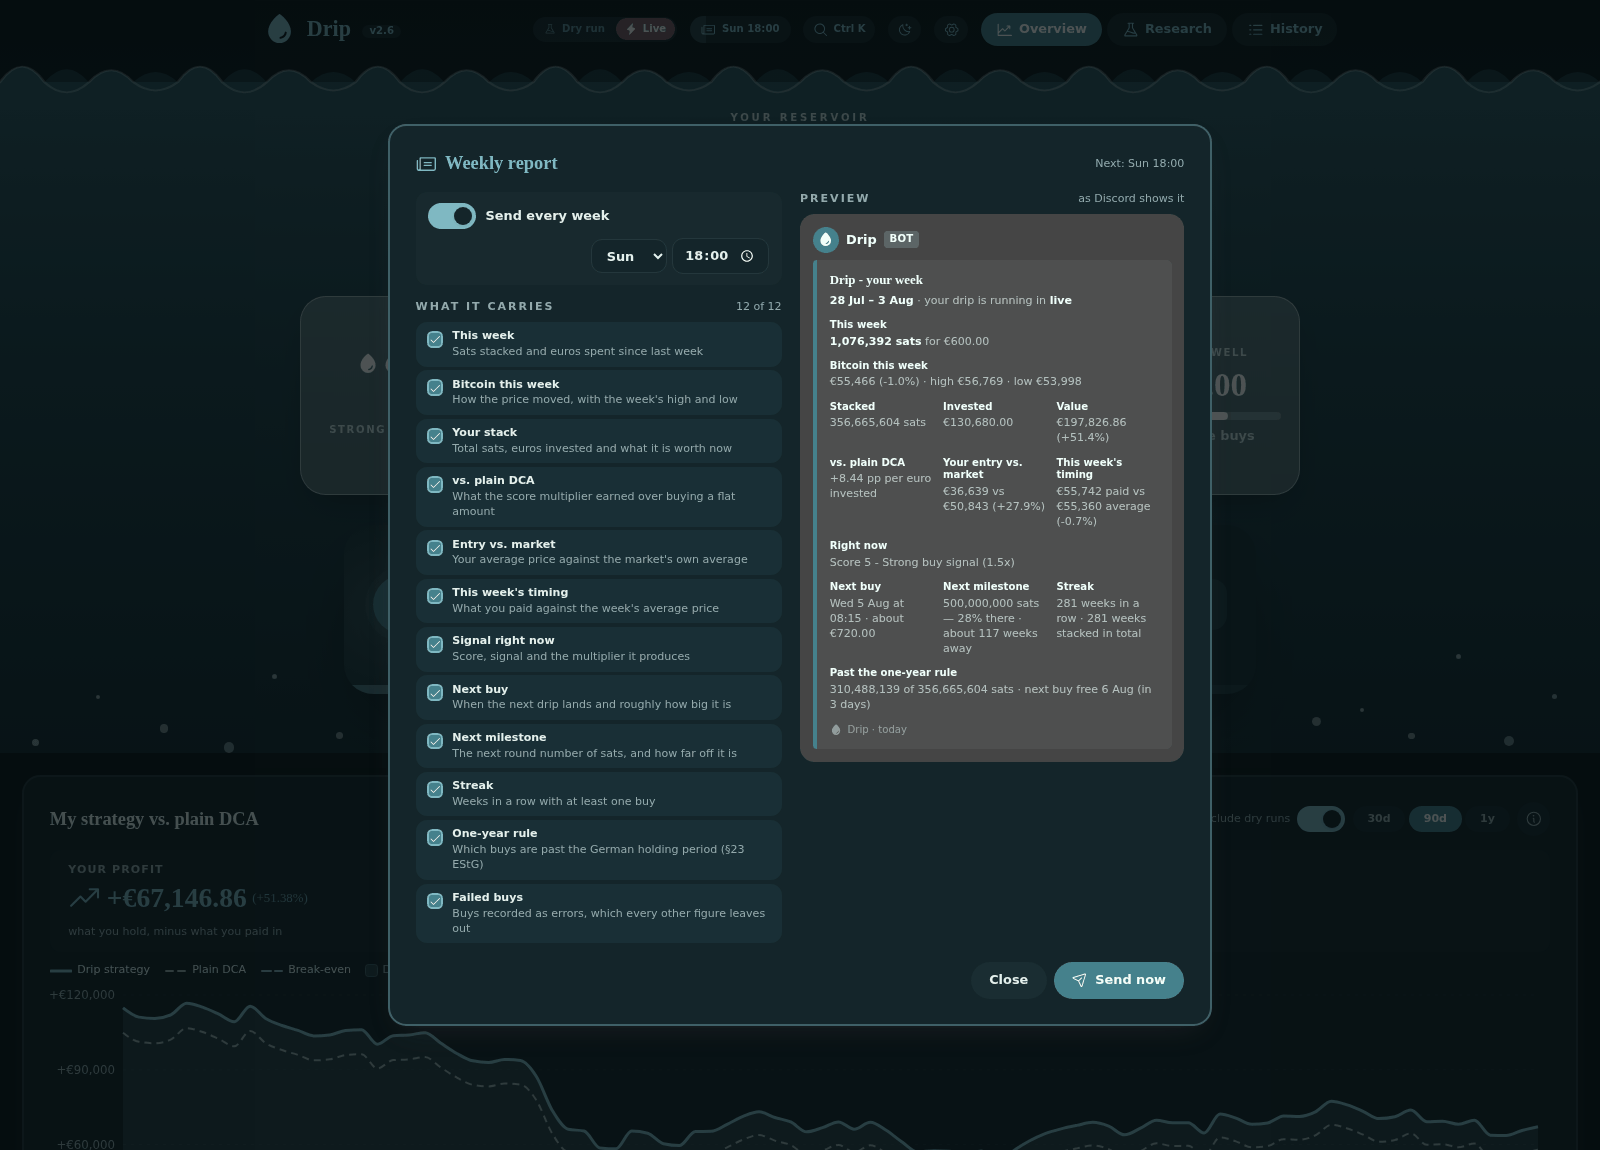
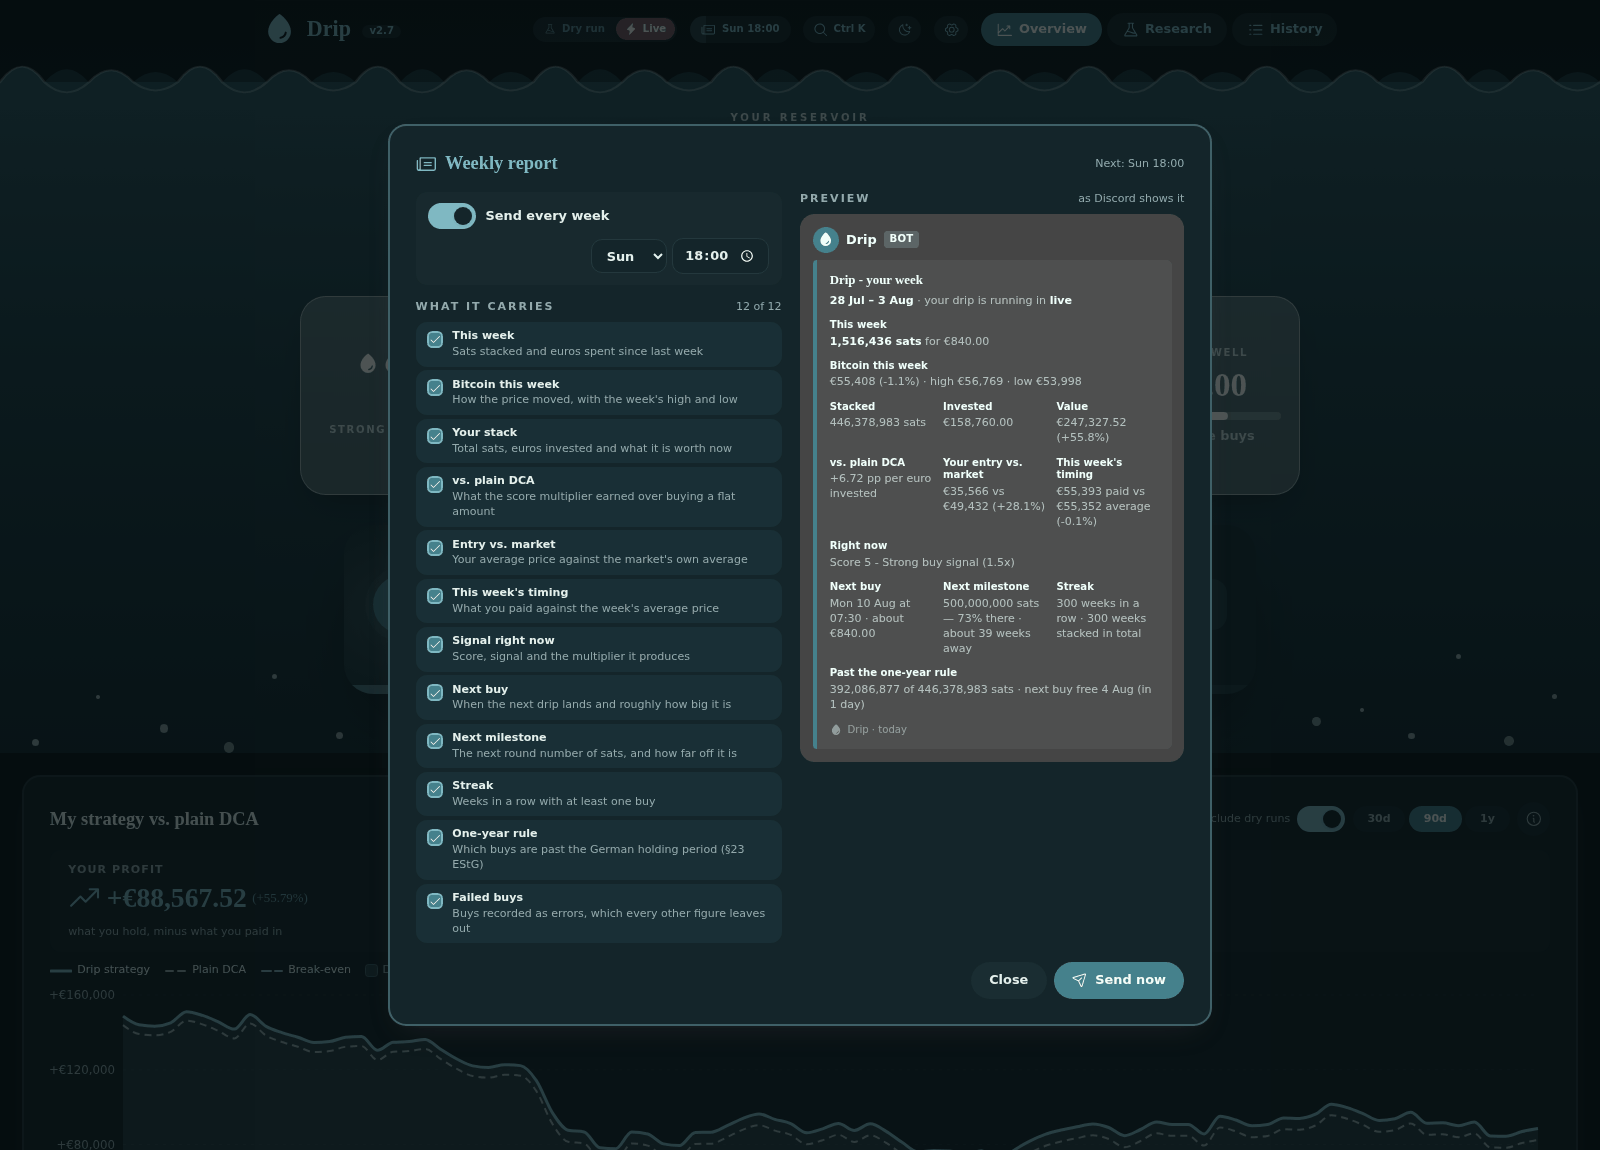
upd: tank fizzes at the signal

diff --git a/frontend/src/components/header/TankBackdrop.tsx b/frontend/src/components/header/TankBackdrop.tsx
@@ -2,11 +2,11 @@
  * The hero's body of water: the tank gradient, rising bubbles and the rolling
  * waterline that breaks across its top edge.
  *
- * Purely decorative (`aria-hidden`, `pointer-events-none`) and entirely
- * self-contained, so the header above it stays about data. The wave tones are
- * shades of the water gradient rather than palette colors — they live in
- * index.css beside that gradient so the surface dims with the water when the
- * night theme comes on, instead of leaving a lit crest on a dark tank.
+ * Decorative (`aria-hidden`, `pointer-events-none`), but not arbitrary: how
+ * hard the water fizzes is the signal. The wave tones are shades of the water
+ * gradient rather than palette colors — they live in index.css beside that
+ * gradient so the surface dims with the water when the night theme comes on,
+ * instead of leaving a lit crest on a dark tank.
  */
 
 import type { CSSProperties } from "react";
@@ -14,6 +14,34 @@ import type { CSSProperties } from "react";
 const WAVE_BACK = "var(--wave-back)";
 const WAVE_FRONT = "var(--wave-front)";
 const FOAM = "var(--wave-foam)";
+
+/**
+ * How lively the water is, 0 to 1, read off the multiplier the score produces.
+ *
+ * The ladder in `strategy.score_indicators` runs 0.5x to 1.5x, so the five
+ * rungs land on 0, ¼, ½, ¾ and 1 — a strong buy signal is a tank going,
+ * a weak one is a tank ticking over. Neither end is a state of its own: the
+ * calm tank still has half its bubbles, and the busy one is a third busier
+ * rather than a jacuzzi. Nothing is known yet is half, not still.
+ */
+const MIN_MULTIPLIER = 0.5;
+const MAX_MULTIPLIER = 1.5;
+
+/** Slower than written when calm, faster when the signal is strong. */
+const CALM_TEMPO = 1.45;
+const LIVELY_TEMPO = 0.72;
+
+/** The same walk, applied to the cream's alpha — a busy tank reads brighter. */
+const CALM_TONE = 0.9;
+const LIVELY_TONE = 1.15;
+
+function fizzOf(multiplier: number | null | undefined): number {
+  if (multiplier == null) return 0.5;
+  const share = (multiplier - MIN_MULTIPLIER) / (MAX_MULTIPLIER - MIN_MULTIPLIER);
+  return Math.min(1, Math.max(0, share));
+}
+
+const mix = (from: number, to: number, fizz: number) => from + (to - from) * fizz;
 
 /**
  * Rising bubbles.
@@ -29,45 +57,52 @@ const FOAM = "var(--wave-foam)";
  *
  * The delays are spread across the durations rather than bunched, so no two
  * neighbours leave the floor together and the tank is never briefly empty.
+ *
+ * `at` is the fizz this bubble joins at — every second one is `0` and always
+ * there, so the calm tank keeps half the field, its full width and its whole
+ * range of sizes. The rest fill in between their neighbours as the signal
+ * strengthens: 14 bubbles at 0.5x, 21 at 1.0x, all 28 at 1.5x.
  */
 const BUBBLES: {
   left: string;
   from: string;
   rise: string;
   size: string;
-  tone: string;
+  tone: number;
   drift: string;
-  duration: string;
+  /** Seconds, before the tempo of the day is applied. */
+  duration: number;
   delay: string;
+  at: number;
 }[] = [
-  { left: "2%", from: "1%", rise: "92%", size: "0.45rem", tone: ".5", drift: "0.5rem", duration: "9.5s", delay: "0.6s" },
-  { left: "6%", from: "8%", rise: "74%", size: "0.3rem", tone: ".52", drift: "-0.3rem", duration: "7.2s", delay: "4.8s" },
-  { left: "10%", from: "3%", rise: "84%", size: "0.55rem", tone: ".44", drift: "-0.4rem", duration: "9s", delay: "2.1s" },
-  { left: "14%", from: "0%", rise: "95%", size: "0.7rem", tone: ".4", drift: "0.75rem", duration: "11s", delay: "7.4s" },
-  { left: "17%", from: "11%", rise: "70%", size: "0.35rem", tone: ".5", drift: "-0.35rem", duration: "6.8s", delay: "1.3s" },
-  { left: "21%", from: "2%", rise: "89%", size: "0.5rem", tone: ".46", drift: "0.6rem", duration: "9.8s", delay: "5.5s" },
-  { left: "25%", from: "6%", rise: "62%", size: "0.25rem", tone: ".55", drift: "-0.25rem", duration: "6.2s", delay: "3s" },
-  { left: "28%", from: "1%", rise: "93%", size: "0.6rem", tone: ".42", drift: "0.45rem", duration: "10.6s", delay: "0.2s" },
-  { left: "32%", from: "13%", rise: "72%", size: "0.4rem", tone: ".48", drift: "-0.55rem", duration: "8.6s", delay: "6.2s" },
-  { left: "36%", from: "4%", rise: "86%", size: "0.35rem", tone: ".5", drift: "0.35rem", duration: "8.2s", delay: "2.6s" },
-  { left: "39%", from: "2%", rise: "96%", size: "0.8rem", tone: ".36", drift: "0.5rem", duration: "12s", delay: "8.1s" },
-  { left: "43%", from: "9%", rise: "66%", size: "0.3rem", tone: ".52", drift: "-0.3rem", duration: "6.6s", delay: "4.3s" },
-  { left: "46%", from: "0%", rise: "90%", size: "0.45rem", tone: ".46", drift: "0.65rem", duration: "10.4s", delay: "1.6s" },
-  { left: "50%", from: "5%", rise: "79%", size: "0.6rem", tone: ".42", drift: "-0.5rem", duration: "9.2s", delay: "6.9s" },
-  { left: "53%", from: "16%", rise: "64%", size: "0.3rem", tone: ".5", drift: "0.3rem", duration: "7s", delay: "3.6s" },
-  { left: "57%", from: "2%", rise: "94%", size: "0.4rem", tone: ".48", drift: "0.4rem", duration: "10.8s", delay: "0.9s" },
-  { left: "61%", from: "10%", rise: "75%", size: "0.5rem", tone: ".44", drift: "-0.45rem", duration: "8.8s", delay: "5.8s" },
-  { left: "64%", from: "3%", rise: "87%", size: "0.35rem", tone: ".5", drift: "0.3rem", duration: "8.4s", delay: "2.2s" },
-  { left: "68%", from: "1%", rise: "91%", size: "0.7rem", tone: ".38", drift: "0.8rem", duration: "11.6s", delay: "7.7s" },
-  { left: "71%", from: "7%", rise: "68%", size: "0.25rem", tone: ".55", drift: "-0.25rem", duration: "6.4s", delay: "4s" },
-  { left: "75%", from: "0%", rise: "97%", size: "0.5rem", tone: ".44", drift: "0.5rem", duration: "11.2s", delay: "1.1s" },
-  { left: "78%", from: "12%", rise: "73%", size: "0.4rem", tone: ".48", drift: "-0.4rem", duration: "8s", delay: "6.5s" },
-  { left: "82%", from: "4%", rise: "83%", size: "0.6rem", tone: ".42", drift: "0.55rem", duration: "9.6s", delay: "3.2s" },
-  { left: "85%", from: "6%", rise: "60%", size: "0.3rem", tone: ".52", drift: "-0.3rem", duration: "6.6s", delay: "0.4s" },
-  { left: "88%", from: "2%", rise: "92%", size: "0.45rem", tone: ".46", drift: "0.6rem", duration: "10.2s", delay: "5.2s" },
-  { left: "91%", from: "14%", rise: "71%", size: "0.35rem", tone: ".5", drift: "-0.35rem", duration: "7.6s", delay: "2.8s" },
-  { left: "94%", from: "1%", rise: "88%", size: "0.65rem", tone: ".4", drift: "-0.7rem", duration: "10s", delay: "8.4s" },
-  { left: "97%", from: "8%", rise: "78%", size: "0.35rem", tone: ".48", drift: "0.35rem", duration: "8.6s", delay: "1.9s" },
+  { left: "2%", from: "1%", rise: "92%", size: "0.45rem", tone: 0.5, drift: "0.5rem", duration: 9.5, delay: "0.6s", at: 0 },
+  { left: "6%", from: "8%", rise: "74%", size: "0.3rem", tone: 0.52, drift: "-0.3rem", duration: 7.2, delay: "4.8s", at: 0.55 },
+  { left: "10%", from: "3%", rise: "84%", size: "0.55rem", tone: 0.44, drift: "-0.4rem", duration: 9, delay: "2.1s", at: 0 },
+  { left: "14%", from: "0%", rise: "95%", size: "0.7rem", tone: 0.4, drift: "0.75rem", duration: 11, delay: "7.4s", at: 0.2 },
+  { left: "17%", from: "11%", rise: "70%", size: "0.35rem", tone: 0.5, drift: "-0.35rem", duration: 6.8, delay: "1.3s", at: 0 },
+  { left: "21%", from: "2%", rise: "89%", size: "0.5rem", tone: 0.46, drift: "0.6rem", duration: 9.8, delay: "5.5s", at: 0.75 },
+  { left: "25%", from: "6%", rise: "62%", size: "0.25rem", tone: 0.55, drift: "-0.25rem", duration: 6.2, delay: "3s", at: 0 },
+  { left: "28%", from: "1%", rise: "93%", size: "0.6rem", tone: 0.42, drift: "0.45rem", duration: 10.6, delay: "0.2s", at: 0.35 },
+  { left: "32%", from: "13%", rise: "72%", size: "0.4rem", tone: 0.48, drift: "-0.55rem", duration: 8.6, delay: "6.2s", at: 0 },
+  { left: "36%", from: "4%", rise: "86%", size: "0.35rem", tone: 0.5, drift: "0.35rem", duration: 8.2, delay: "2.6s", at: 0.9 },
+  { left: "39%", from: "2%", rise: "96%", size: "0.8rem", tone: 0.36, drift: "0.5rem", duration: 12, delay: "8.1s", at: 0 },
+  { left: "43%", from: "9%", rise: "66%", size: "0.3rem", tone: 0.52, drift: "-0.3rem", duration: 6.6, delay: "4.3s", at: 0.15 },
+  { left: "46%", from: "0%", rise: "90%", size: "0.45rem", tone: 0.46, drift: "0.65rem", duration: 10.4, delay: "1.6s", at: 0 },
+  { left: "50%", from: "5%", rise: "79%", size: "0.6rem", tone: 0.42, drift: "-0.5rem", duration: 9.2, delay: "6.9s", at: 0.6 },
+  { left: "53%", from: "16%", rise: "64%", size: "0.3rem", tone: 0.5, drift: "0.3rem", duration: 7, delay: "3.6s", at: 0 },
+  { left: "57%", from: "2%", rise: "94%", size: "0.4rem", tone: 0.48, drift: "0.4rem", duration: 10.8, delay: "0.9s", at: 0.3 },
+  { left: "61%", from: "10%", rise: "75%", size: "0.5rem", tone: 0.44, drift: "-0.45rem", duration: 8.8, delay: "5.8s", at: 0 },
+  { left: "64%", from: "3%", rise: "87%", size: "0.35rem", tone: 0.5, drift: "0.3rem", duration: 8.4, delay: "2.2s", at: 0.85 },
+  { left: "68%", from: "1%", rise: "91%", size: "0.7rem", tone: 0.38, drift: "0.8rem", duration: 11.6, delay: "7.7s", at: 0 },
+  { left: "71%", from: "7%", rise: "68%", size: "0.25rem", tone: 0.55, drift: "-0.25rem", duration: 6.4, delay: "4s", at: 0.45 },
+  { left: "75%", from: "0%", rise: "97%", size: "0.5rem", tone: 0.44, drift: "0.5rem", duration: 11.2, delay: "1.1s", at: 0 },
+  { left: "78%", from: "12%", rise: "73%", size: "0.4rem", tone: 0.48, drift: "-0.4rem", duration: 8, delay: "6.5s", at: 0.7 },
+  { left: "82%", from: "4%", rise: "83%", size: "0.6rem", tone: 0.42, drift: "0.55rem", duration: 9.6, delay: "3.2s", at: 0 },
+  { left: "85%", from: "6%", rise: "60%", size: "0.3rem", tone: 0.52, drift: "-0.3rem", duration: 6.6, delay: "0.4s", at: 0.25 },
+  { left: "88%", from: "2%", rise: "92%", size: "0.45rem", tone: 0.46, drift: "0.6rem", duration: 10.2, delay: "5.2s", at: 0 },
+  { left: "91%", from: "14%", rise: "71%", size: "0.35rem", tone: 0.5, drift: "-0.35rem", duration: 7.6, delay: "2.8s", at: 0.95 },
+  { left: "94%", from: "1%", rise: "88%", size: "0.65rem", tone: 0.4, drift: "-0.7rem", duration: 10, delay: "8.4s", at: 0 },
+  { left: "97%", from: "8%", rise: "78%", size: "0.35rem", tone: 0.48, drift: "0.35rem", duration: 8.6, delay: "1.9s", at: 0.4 },
 ];
 
 // Each wave path repeats every 120px so the marquee shift loops seamlessly.
@@ -83,31 +118,38 @@ const WAVE_FRONT_CREST =
 
 const WAVE_FRONT_PATH = `${WAVE_FRONT_CREST} V120 H-120 Z`;
 
-export default function TankBackdrop() {
+/** `multiplier` is the score's own output; leave it off and the tank sits at half. */
+export default function TankBackdrop({ multiplier }: { multiplier?: number | null }) {
+  const fizz = fizzOf(multiplier);
+  const tempo = mix(CALM_TEMPO, LIVELY_TEMPO, fizz);
+  const lift = mix(CALM_TONE, LIVELY_TONE, fizz);
+
   return (
     <div
       aria-hidden="true"
       className="pointer-events-none absolute inset-x-0 bottom-0 top-[5.5rem] z-0"
     >
       <div className="tank-water absolute inset-0 overflow-hidden">
-        {BUBBLES.map((b, i) => (
-          <span
-            key={i}
-            className="bubble"
-            style={
-              {
-                left: b.left,
-                bottom: b.from,
-                "--rise": b.rise,
-                "--size": b.size,
-                "--tone": b.tone,
-                "--drift": b.drift,
-                "--dur": b.duration,
-                "--delay": b.delay,
-              } as CSSProperties
-            }
-          />
-        ))}
+        {BUBBLES.map((b, i) =>
+          b.at > fizz ? null : (
+            <span
+              key={i}
+              className="bubble"
+              style={
+                {
+                  left: b.left,
+                  bottom: b.from,
+                  "--rise": b.rise,
+                  "--size": b.size,
+                  "--tone": (b.tone * lift).toFixed(3),
+                  "--drift": b.drift,
+                  "--dur": `${(b.duration * tempo).toFixed(2)}s`,
+                  "--delay": b.delay,
+                } as CSSProperties
+              }
+            />
+          ),
+        )}
       </div>
 
       {/* The waving surface, painted over the water's top edge: baseline at the

diff --git a/frontend/src/version.ts b/frontend/src/version.ts
@@ -17,6 +17,14 @@ export interface Release {
 
 export const CHANGELOG: Release[] = [
   {
+    version: "2.7",
+    date: "2026-08-03",
+    changes: [
+      "The tank now fizzes at the strength of the signal: a strong buy week has twice as many bubbles rising twice as fast as a weak one, so the water tells you what the score says before you read it",
+      "Both ends stay watchable — the quiet tank keeps half its bubbles across the full width, and the busy one is livelier without turning into a jacuzzi",
+    ],
+  },
+  {
     version: "2.6",
     date: "2026-08-03",
     changes: [

diff --git a/frontend/src/components/SiteHeader.tsx b/frontend/src/components/SiteHeader.tsx
@@ -270,7 +270,7 @@ export default function SiteHeader({
       {/* Hero "tank": the water fills almost the whole hero, its surface waving just
           below the sticky bar; every bit of data lives submerged on the water in cream. */}
       <section className="hero-gradient relative -mt-16 shrink-0 overflow-hidden px-6 pb-14 pt-16 text-cream md:px-10 md:pb-16">
-        <TankBackdrop />
+        <TankBackdrop multiplier={indicators?.multiplier} />
         {splash > 0 && <Splash key={splash} />}
 
         <div className="relative z-10 mx-auto max-w-hero">

diff --git a/frontend/src/pages/Tank.tsx b/frontend/src/pages/Tank.tsx
@@ -69,7 +69,7 @@ export default function Tank({
 
   return (
     <div className="tank-water relative h-full w-full overflow-hidden text-cream">
-      <TankBackdrop />
+      <TankBackdrop multiplier={indicators?.multiplier} />
 
       <div className="relative z-10 flex h-full flex-col items-center justify-center px-[4vw] text-center">
         <div className={CAPTION}>Your reservoir</div>

diff --git a/README.md b/README.md
@@ -12,12 +12,12 @@ explicit, confirmed opt-in.
 
 *Example history, not a real account. Shown in the night theme; there is a day one too.*
 
-Your stack is a tank of water, and it fills. Underneath, the dashboard researches its
-own strategy, reports what you paid against the market, and carries the rate you stack
-at forward to the next round number of sats. Setting the drip happens on the next-buy
-card: click the amount, or the day and time. Once a week the whole thing arrives on
-Discord. `Ctrl+K` reaches all of it, keys and backend included, so the Pi needs no
-shell after the first install.
+Your stack is a tank of water, and it fizzes at the strength of the week's signal.
+Underneath, the dashboard researches its own strategy, reports what you paid against
+the market, and carries the rate you stack at forward to the next round number of sats.
+Setting the drip happens on the next-buy card: click the amount, or the day and time.
+Once a week the whole thing arrives on Discord. `Ctrl+K` reaches all of it, keys
+included, so the Pi needs no shell after the first install.
 
 ## Install
 
